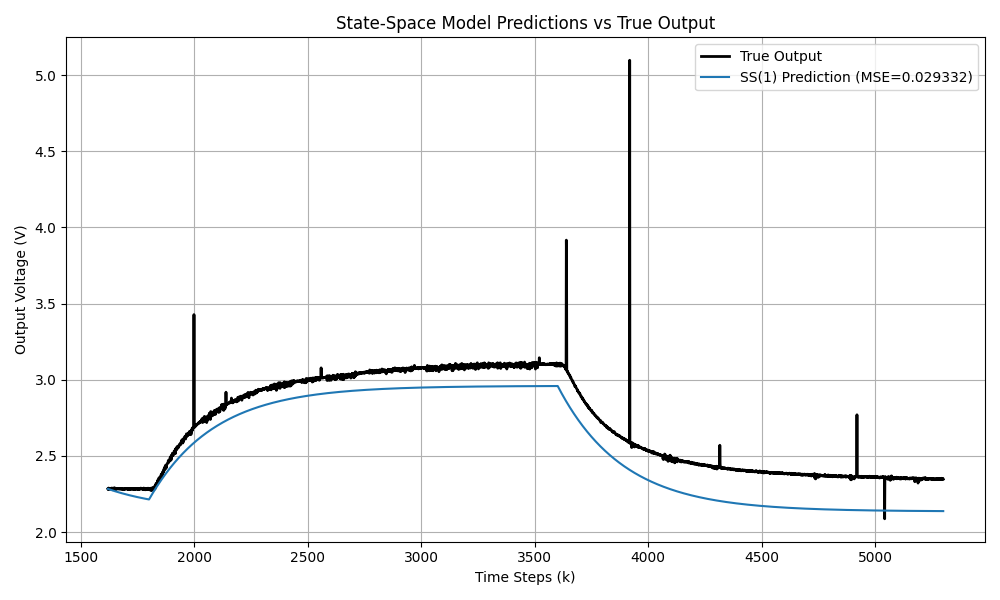
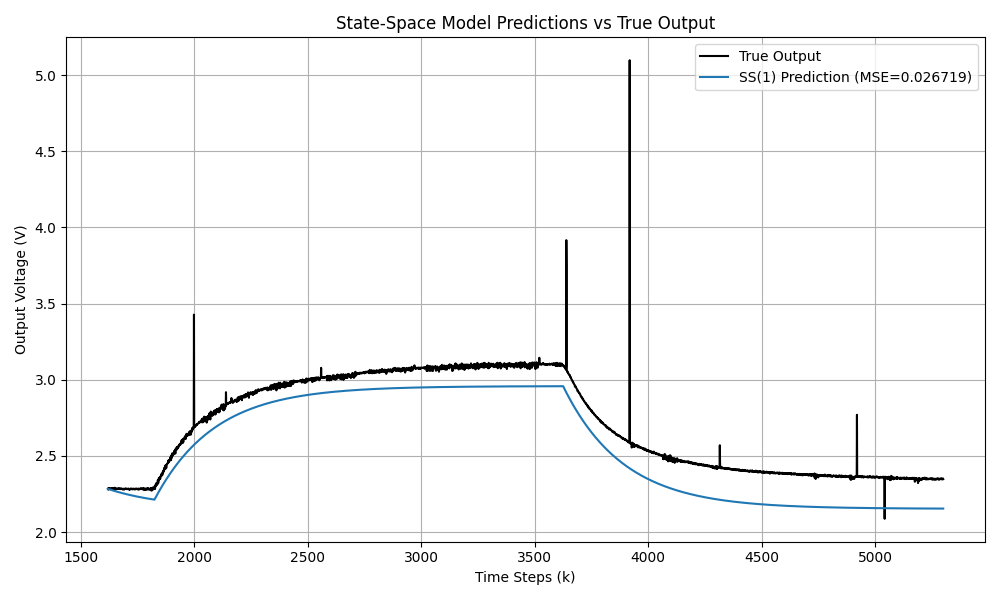
Refactor ARX and OE model fitting to incorporate explicit transport delay; add delay inspection plotting functionality

diff --git a/torneira/identificacao/poly_models.py b/torneira/identificacao/poly_models.py
@@ -3,22 +3,26 @@ import scipy.linalg
 import scipy.optimize
 
 
-def fit_arx(order: int, u_train: np.ndarray, y_train: np.ndarray) -> np.ndarray:
+def fit_arx(
+    order: int, nk: int, u_train: np.ndarray, y_train: np.ndarray
+) -> np.ndarray:
     """
-    Fits an ARX model using Ordinary Least Squares.
+    Fits an ARX model using Ordinary Least Squares with an explicit transport delay.
     """
     N = len(y_train)
     if len(u_train) != N:
         raise ValueError("u_train and y_train must be of equal length.")
-    if N <= order:
-        raise ValueError("Training length must exceed the auto-regressive order.")
 
-    Phi = np.zeros((N - order, order + 1))
-    Y = y_train[order:]
+    start_idx = max(order, nk)
+    if N <= start_idx:
+        raise ValueError("Training length must exceed max(order, nk).")
 
-    for k in range(order, N):
-        Phi[k - order, :order] = -y_train[k - order : k][::-1]
-        Phi[k - order, order] = u_train[k - 1]
+    Phi = np.zeros((N - start_idx, order + 1))
+    Y = y_train[start_idx:]
+
+    for k in range(start_idx, N):
+        Phi[k - start_idx, :order] = -y_train[k - order : k][::-1]
+        Phi[k - start_idx, order] = u_train[k - nk]
 
     # scipy.linalg.lstsq uses SVD for robust OLS estimation
     lstsq_result = scipy.linalg.lstsq(Phi, Y)
@@ -31,6 +35,7 @@ def fit_arx(order: int, u_train: np.ndarray, y_train: np.ndarray) -> np.ndarray:
 
 def test_arx(
     order: int,
+    nk: int,
     theta: np.ndarray,
     u_test: np.ndarray,
     y_test: np.ndarray,
@@ -42,36 +47,42 @@ def test_arx(
     N = len(y_test)
     if len(u_test) != N:
         raise ValueError("u_test and y_test must be of equal length.")
-    if len(y_init) != order:
-        raise ValueError("y_init length must strictly equal 'order'.")
+
+    start_idx = max(order, nk)
+    if len(y_init) != start_idx:
+        raise ValueError(
+            f"y_init length must strictly equal max(order, nk)={start_idx}."
+        )
 
     y_pred = np.zeros(N)
-    y_pred[:order] = y_init
+    y_pred[:start_idx] = y_init
 
     a_params = theta[:order]
     b_1 = theta[order]
 
-    for k in range(order, N):
-        y_pred[k] = -np.dot(a_params, y_pred[k - order : k][::-1]) + b_1 * u_test[k - 1]
+    for k in range(start_idx, N):
+        y_pred[k] = (
+            -np.dot(a_params, y_pred[k - order : k][::-1]) + b_1 * u_test[k - nk]
+        )
 
-    mse = float(np.mean((y_test[order:] - y_pred[order:]) ** 2))
+    mse = float(np.mean((y_test[start_idx:] - y_pred[start_idx:]) ** 2))
 
     return y_pred, mse
 
 
-def fit_oe(order: int, u_train: np.ndarray, y_train: np.ndarray) -> np.ndarray:
+def fit_oe(order: int, nk: int, u_train: np.ndarray, y_train: np.ndarray) -> np.ndarray:
     """
     Fits an Output Error (OE) model using nonlinear least squares optimization.
-    Initial parameters are estimated via an ARX Ordinary Least Squares structure.
     """
     N = len(y_train)
+    start_idx = max(order, nk)
 
     # 1. ARX OLS for initial guess theta_0
-    Phi = np.zeros((N - order, order + 1))
-    Y = y_train[order:]
-    for k in range(order, N):
-        Phi[k - order, :order] = -y_train[k - order : k][::-1]
-        Phi[k - order, order] = u_train[k - 1]
+    Phi = np.zeros((N - start_idx, order + 1))
+    Y = y_train[start_idx:]
+    for k in range(start_idx, N):
+        Phi[k - start_idx, :order] = -y_train[k - order : k][::-1]
+        Phi[k - start_idx, order] = u_train[k - nk]
 
     lstq_result = scipy.linalg.lstsq(Phi, Y)
     theta_0, _, _, _ = (
@@ -81,7 +92,7 @@ def fit_oe(order: int, u_train: np.ndarray, y_train: np.ndarray) -> np.ndarray:
     )
 
     # 2. Nonlinear Output Error Optimization
-    y_init = y_train[:order]
+    y_init = y_train[:start_idx]
 
     def residuals(theta: np.ndarray) -> np.ndarray:
         f_params = theta[:order]
@@ -90,20 +101,18 @@ def fit_oe(order: int, u_train: np.ndarray, y_train: np.ndarray) -> np.ndarray:
         # Stability constraint: Roots of F(z) must be inside the unit circle
         roots = np.roots(np.r_[1.0, f_params])
         if np.any(np.abs(roots) >= 1.0):
-            # Return high constant penalty to prevent NaN overflow; corrupts local Jacobian.
-            return np.full(N - order, 1e6)
+            return np.full(N - start_idx, 1e6)
 
         y_sim = np.zeros(N)
-        y_sim[:order] = y_init
+        y_sim[:start_idx] = y_init
 
-        for k in range(order, N):
+        for k in range(start_idx, N):
             y_sim[k] = (
-                -np.dot(f_params, y_sim[k - order : k][::-1]) + b_1 * u_train[k - 1]
+                -np.dot(f_params, y_sim[k - order : k][::-1]) + b_1 * u_train[k - nk]
             )
 
-        return y_train[order:] - y_sim[order:]
+        return y_train[start_idx:] - y_sim[start_idx:]
 
-    # Trust Region Reflective optimization
     res = scipy.optimize.least_squares(residuals, theta_0, method="trf")
 
     return res.x
@@ -111,6 +120,7 @@ def fit_oe(order: int, u_train: np.ndarray, y_train: np.ndarray) -> np.ndarray:
 
 def test_oe(
     order: int,
+    nk: int,
     theta: np.ndarray,
     u_test: np.ndarray,
     y_test: np.ndarray,
@@ -120,15 +130,19 @@ def test_oe(
     Evaluates an OE model using a strictly free-run simulation.
     """
     N = len(y_test)
+    start_idx = max(order, nk)
+
     y_pred = np.zeros(N)
-    y_pred[:order] = y_init
+    y_pred[:start_idx] = y_init
 
     f_params = theta[:order]
     b_1 = theta[order]
 
-    for k in range(order, N):
-        y_pred[k] = -np.dot(f_params, y_pred[k - order : k][::-1]) + b_1 * u_test[k - 1]
+    for k in range(start_idx, N):
+        y_pred[k] = (
+            -np.dot(f_params, y_pred[k - order : k][::-1]) + b_1 * u_test[k - nk]
+        )
 
-    mse = float(np.mean((y_test[order:] - y_pred[order:]) ** 2))
+    mse = float(np.mean((y_test[start_idx:] - y_pred[start_idx:]) ** 2))
 
     return y_pred, mse

diff --git a/torneira/identificacao/ss_models.py b/torneira/identificacao/ss_models.py
@@ -3,24 +3,30 @@ from sippy_unipi import system_identification
 
 
 def fit_ss(
-    nx: int, u_train: np.ndarray, y_train: np.ndarray
+    nx: int, nk: int, u_train: np.ndarray, y_train: np.ndarray
 ) -> tuple[np.ndarray, np.ndarray, np.ndarray, np.ndarray]:
     """Identifies a discrete-time stochastic state-space model using N4SID.
-
-    The feedthrough matrix D is constrained to zero.
-
-    Returns:
-        Tuple containing matrices (A, B, C, K).
+    Incorporates explicit transport delay nk >= 1.
     """
     N = len(y_train)
     if len(u_train) != N:
         raise ValueError("u_train and y_train must be of equal length.")
+    if nk < 1:
+        raise ValueError(
+            "nk must be >= 1 for a strictly proper state-space model (D=0)."
+        )
 
-    # sippy expects 2D arrays: (n_variables, n_samples)
-    u_2d = np.atleast_2d(u_train)
-    y_2d = np.atleast_2d(y_train)
+    # Shift data arrays to absorb delays > 1 without injecting artificial zeros
+    if nk > 1:
+        y_fit = y_train[nk - 1 :]
+        u_fit = u_train[: -(nk - 1)]
+    else:
+        y_fit = y_train
+        u_fit = u_train
 
-    # SS_D_required=False enforces strictly proper system (D=0)
+    u_2d = np.atleast_2d(u_fit)
+    y_2d = np.atleast_2d(y_fit)
+
     sys = system_identification(
         y_2d, u_2d, "N4SID", SS_orders=[nx], SS_D_required=False
     )
@@ -29,30 +35,12 @@ def fit_ss(
 
 
 def get_states_from_output(C: np.ndarray, y0: np.ndarray) -> np.ndarray:
-    """Estimate an initial state vector from an output measurement.
-
-    This is a simple state reconstruction step that computes an initial
-    state `x0` satisfying:
-
-        y0 ≈ C @ x0
-
-    The solution is computed via the Moore-Penrose pseudo-inverse of `C`.
-
-    Args:
-        C: Output matrix of shape (l, n) (l = number of outputs, n = number of states).
-        y0: Initial output sample(s). Should be shape (l,) or (l, 1) for multiple outputs
-            or scalar for a single-output system.
-
-    Returns:
-        x0: Estimated initial state vector of shape (n,).
-    """
+    """Estimate an initial state vector from an output measurement."""
     y0_arr = np.atleast_1d(y0).astype(float)
 
-    # Ensure we have a column vector with the same number of output dims as C
     if y0_arr.ndim > 1 and y0_arr.shape[1] != 1:
         y0_arr = y0_arr.ravel()
 
-    # If y0 is scalar (single output), make it a 1-element vector
     if y0_arr.ndim == 0:
         y0_arr = np.array([y0_arr])
 
@@ -70,13 +58,16 @@ def get_states_from_output(C: np.ndarray, y0: np.ndarray) -> np.ndarray:
 
 def test_ss(
     nx: int,
+    nk: int,
     matrices: tuple[np.ndarray, np.ndarray, np.ndarray, np.ndarray],
     u_test: np.ndarray,
     y_test: np.ndarray,
     x_init: np.ndarray,
 ) -> tuple[np.ndarray, float]:
     """
-    Evaluates the deterministic state-space model (A, B, C) using a free-run simulation.
+    Evaluates the deterministic state-space model using a free-run simulation.
+    Applies the explicit transport delay step mathematically into the state transition.
+    Unmeasured past inputs (k < 0) are assumed to equal the initial input u_test[0].
     """
     A, B, C, K = matrices
     N = len(y_test)
@@ -90,15 +81,18 @@ def test_ss(
     x[:, 0] = x_init
     y_pred = np.zeros(N)
 
-    # Flatten B to 1D for direct vector-scalar multiplication
     B_vec = B.flatten()
 
     for k in range(N):
-        # C is shape (1, nx), x[:, k] is (nx,) -> scalar output
         y_pred[k] = float((C @ x[:, k]).ravel()[0])
 
-        # State update
-        x[:, k + 1] = A @ x[:, k] + B_vec * u_test[k]
+        # State transition utilizing the correct delayed input
+        u_idx = k + 1 - nk
+
+        # Clamp unmeasured past inputs to the first available input
+        u_val = u_test[u_idx] if u_idx >= 0 else u_test[0]
+
+        x[:, k + 1] = A @ x[:, k] + B_vec * u_val
 
     mse = float(np.mean((y_test - y_pred) ** 2))
 

diff --git a/torneira/identificacao/identifica.py b/torneira/identificacao/identifica.py
@@ -26,6 +26,18 @@ def main():
 
     plot_data(k, u, y, "experimento.png")
 
+    delay_inspection_bounds = (1780, 1880)
+    k_delay_inspection = k[delay_inspection_bounds[0] : delay_inspection_bounds[1]]
+    u_delay_inspection = u[delay_inspection_bounds[0] : delay_inspection_bounds[1]]
+    y_delay_inspection = y[delay_inspection_bounds[0] : delay_inspection_bounds[1]]
+
+    plot_data(
+        k_delay_inspection,
+        u_delay_inspection,
+        y_delay_inspection,
+        "inspecao_atraso.png",
+    )
+
     (
         k_test,
         y_test,
@@ -36,6 +48,8 @@ def main():
         y_fit_mean,
     ) = prepare_data(k, u, y)
 
+    delay = 25
+
     if "POLY" in MODELS:
         orders = [1, 2]
 
@@ -43,24 +57,29 @@ def main():
         oe_results = {}
 
         for order in orders:
-            arx_theta = fit_arx(order, u_fit_demeaned, y_fit_demeaned)
+
+            y_init = y_test_demeaned[: max(order, delay)]
+
+            arx_theta = fit_arx(order, delay, u_fit_demeaned, y_fit_demeaned)
             arx_y_pred, arx_mse = test_arx(
                 order,
+                delay,
                 arx_theta,
                 u_test_demeaned,
                 y_test_demeaned,
-                y_test_demeaned[:order],
+                y_init,
             )
             arx_y_pred_remeaned = arx_y_pred + y_fit_mean
             arx_results[order] = (arx_y_pred_remeaned, arx_mse)
 
-            oe_theta = fit_oe(order, u_fit_demeaned, y_fit_demeaned)
+            oe_theta = fit_oe(order, delay, u_fit_demeaned, y_fit_demeaned)
             oe_y_pred, oe_mse = test_oe(
                 order,
+                delay,
                 oe_theta,
                 u_test_demeaned,
                 y_test_demeaned,
-                y_test_demeaned[:order],
+                y_init,
             )
             oe_y_pred_remeaned = oe_y_pred + y_fit_mean
             oe_results[order] = (oe_y_pred_remeaned, oe_mse)
@@ -76,14 +95,14 @@ def main():
             print(f"OE({order}) MSE: {mse:.4f}")
 
     if "SS" in MODELS:
-        matrices_ss = fit_ss(2, u_fit_demeaned, y_fit_demeaned)
+        matrices_ss = fit_ss(2, delay, u_fit_demeaned, y_fit_demeaned)
         nx_est = matrices_ss[0].shape[0]
 
         # Estimate initial state from the first test output sample.
         x_init = get_states_from_output(matrices_ss[2], y_test_demeaned[0])
 
         ss_y_pred, ss_mse = test_ss(
-            nx_est, matrices_ss, u_test_demeaned, y_test_demeaned, x_init
+            nx_est, delay, matrices_ss, u_test_demeaned, y_test_demeaned, x_init
         )
         ss_y_pred_remeaned = ss_y_pred + y_fit_mean
 

diff --git a/torneira/identificacao/data_io.py b/torneira/identificacao/data_io.py
@@ -146,16 +146,11 @@ def plot_predictions_ss(
     plt.figure(figsize=(10, 6))
 
     # Plot true output
-    plt.plot(k_test, y_test, label="True Output", color="black", linewidth=2)
+    plt.plot(k_test, y_test, label="True Output", color="black")
 
     # Plot state-space model predictions
     for order, (y_pred, mse) in ss_results.items():
-        plt.plot(
-            k_test,
-            y_pred,
-            label=f"SS({order}) Prediction (MSE={mse:.6f})",
-            linewidth=1.5,
-        )
+        plt.plot(k_test, y_pred, label=f"SS({order}) Prediction (MSE={mse:.6f})")
 
     plt.title("State-Space Model Predictions vs True Output")
     plt.xlabel("Time Steps (k)")
